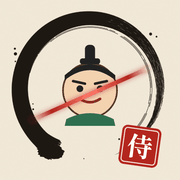
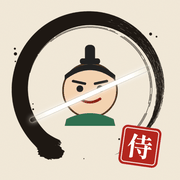
アイコンの一閃をゲーム内と同じ白に
Claude-Session: https://claude.ai/code/session_01GkBH6xNvKQohB3ic2cbnSZ

Changed region(s): [[0.1389, 0.3611, 0.8333, 0.6944], [0.8056, 0.6944, 0.8333, 0.7222]]

diff --git a/index.html b/index.html
@@ -989,7 +989,7 @@ const PATCH_NOTES = [
   "2026-11-15",
   "新しいアイコンと円相",
   [
-   "アプリのアイコンを新しく：4つの原案をまぜた（筆の円相・侍の顔・赤い一閃・朱の「侍」のハンコ）",
+   "アプリのアイコンを新しく：4つの原案をまぜた（筆の円相・侍の顔・白い一閃・朱の「侍」のハンコ）",
    "対戦の円を、本物の筆で描いたような円相に（入りは太く、終わりがかすれる）",
    "遊び方ガイドに、どのページからでも押せる「スキップ」を追加"
   ]

diff --git a/CHANGELOG.md b/CHANGELOG.md
@@ -2,7 +2,7 @@
 
 ## ver 1.13.0（2026-11-15）新しいアイコンと円相
 
-- アプリのアイコンを新しく：4つの原案をまぜた（筆の円相・侍の顔・赤い一閃・朱の「侍」のハンコ）
+- アプリのアイコンを新しく：4つの原案をまぜた（筆の円相・侍の顔・白い一閃・朱の「侍」のハンコ）
 - 対戦の円を、本物の筆で描いたような円相に（入りは太く、終わりがかすれる）
 - 遊び方ガイドに、どのページからでも押せる「スキップ」を追加
 
